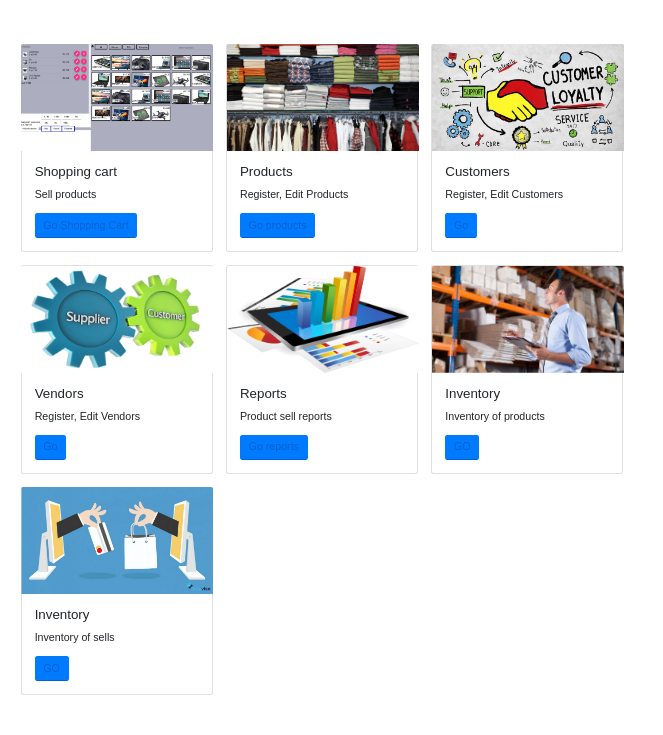
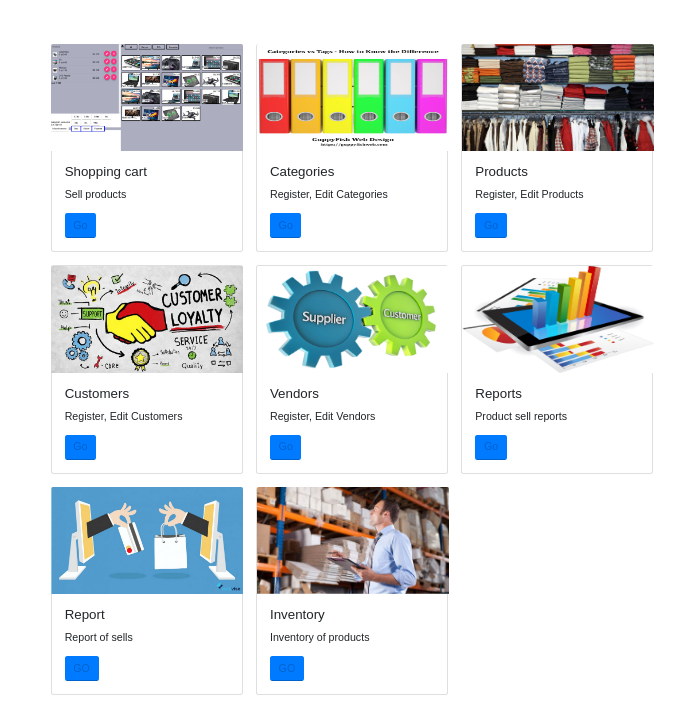
doc update

diff --git a/src/app/pages/main/main.component.html b/src/app/pages/main/main.component.html
@@ -5,7 +5,16 @@
             <div class="card-body">
                 <h5 class="card-title">Shopping cart</h5>
                 <p class="card-text">Sell products</p>
-                <a href="/" class="btn btn-primary">Go Shopping Cart</a>
+                <a href="/" class="btn btn-primary">Go</a>
+            </div>
+        </div>
+
+        <div class="card" style="width: 18rem; display: inline-block; margin: 10px;">
+            <img class="card-img-top" src="assets/general/categories.png" alt="Categories" style="width: 18rem; height: 10rem;" />
+            <div class="card-body">
+                <h5 class="card-title">Categories</h5>
+                <p class="card-text">Register, Edit Categories</p>
+                <a href="/reg/categories" class="btn btn-primary">Go</a>
             </div>
         </div>
 
@@ -14,7 +23,7 @@
             <div class="card-body">
                 <h5 class="card-title">Products</h5>
                 <p class="card-text">Register, Edit Products</p>
-                <a href="/reg/products" class="btn btn-primary">Go products</a>
+                <a href="/reg/products" class="btn btn-primary">Go</a>
             </div>
         </div>
 
@@ -41,7 +50,16 @@
             <div class="card-body">
                 <h5 class="card-title">Reports</h5>
                 <p class="card-text">Product sell reports</p>
-                <a href="/rep/products" class="btn btn-primary">Go reports</a>
+                <a href="/rep/products" class="btn btn-primary">Go</a>
+            </div>
+        </div>
+
+        <div class="card" style="width: 18rem; display: inline-block; margin: 10px;">
+            <img class="card-img-top" src="assets/general/sells.png" alt="Reports" style="width: 18rem; height: 10rem;" />
+            <div class="card-body">
+                <h5 class="card-title">Report</h5>
+                <p class="card-text">Report of sells</p>
+                <a href="/rep/sells" class="btn btn-primary">GO</a>
             </div>
         </div>
 
@@ -51,15 +69,6 @@
                 <h5 class="card-title">Inventory</h5>
                 <p class="card-text">Inventory of products</p>
                 <a href="/inv/products" class="btn btn-primary">GO</a>
-            </div>
-        </div>
-
-        <div class="card" style="width: 18rem; display: inline-block; margin: 10px;">
-            <img class="card-img-top" src="assets/general/sells.png" alt="Reports" style="width: 18rem; height: 10rem;" />
-            <div class="card-body">
-                <h5 class="card-title">Inventory</h5>
-                <p class="card-text">Inventory of sells</p>
-                <a href="/inv/sells" class="btn btn-primary">GO</a>
             </div>
         </div>
 

diff --git a/ALL.md b/ALL.md
@@ -1,5 +1,34 @@
 # NgVendeiFull
 
+## Shopping cart
 ![Shopping cart](https://raw.githubusercontent.com/kapit4n/ng-vendei-full/master/mockups/all/vendei-full-shopping-cart.png)
 
+## Pages Preview
+![Shopping cart](https://raw.githubusercontent.com/kapit4n/ng-vendei-full/master/mockups/all/vendei-full-pages-preview.png)
 
+## Product List
+![Shopping cart](https://raw.githubusercontent.com/kapit4n/ng-vendei-full/master/mockups/all/vendei-full-products-list.png)
+
+## Product Edit
+![Shopping cart](https://raw.githubusercontent.com/kapit4n/ng-vendei-full/master/mockups/all/vendei-full-product-edit.png)
+
+## Customers
+![Shopping cart](https://raw.githubusercontent.com/kapit4n/ng-vendei-full/master/mockups/all/vendei-full-customers.png)
+
+## Vendors
+![Shopping cart](https://raw.githubusercontent.com/kapit4n/ng-vendei-full/master/mockups/all/vendei-full-vendors.png)
+
+## Report Products
+![Shopping cart](https://raw.githubusercontent.com/kapit4n/ng-vendei-full/master/mockups/all/vendei-full-report-products.png)
+
+## Report Sell
+![Shopping cart](https://raw.githubusercontent.com/kapit4n/ng-vendei-full/master/mockups/all/vendei-full-report-sells.png)
+
+## Inventory Products
+![Shopping cart](https://raw.githubusercontent.com/kapit4n/ng-vendei-full/master/mockups/all/vendei-full-inventory-products.png)
+
+## Inventory Products Detail
+![Shopping cart](https://raw.githubusercontent.com/kapit4n/ng-vendei-full/master/mockups/all/vendei-full-inventory-product-detail.png)
+
+## Inventory Products Add
+![Shopping cart](https://raw.githubusercontent.com/kapit4n/ng-vendei-full/master/mockups/all/vendei-full-inventory-product-add.png)
